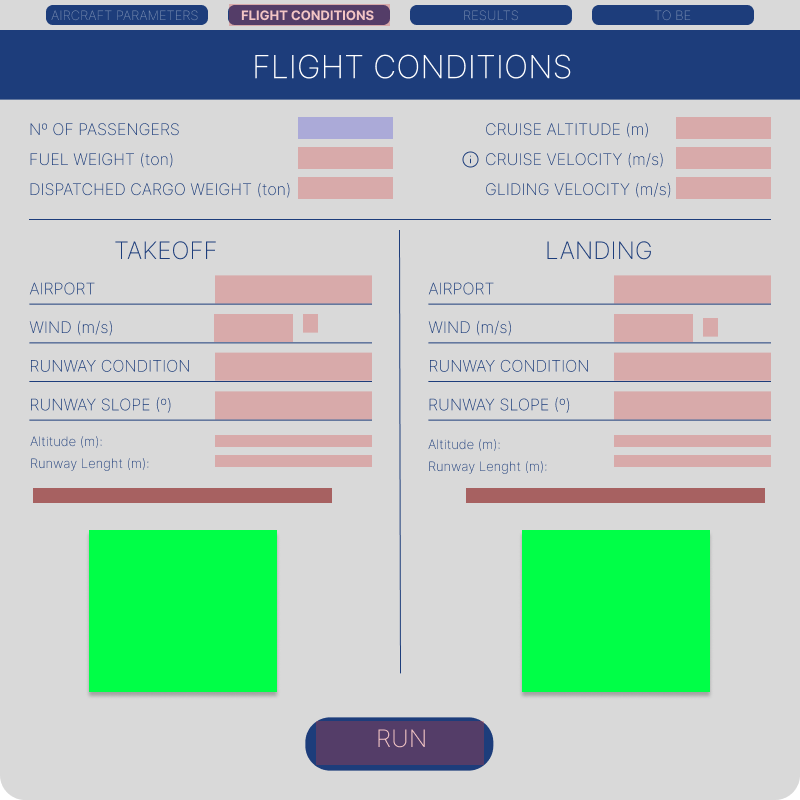
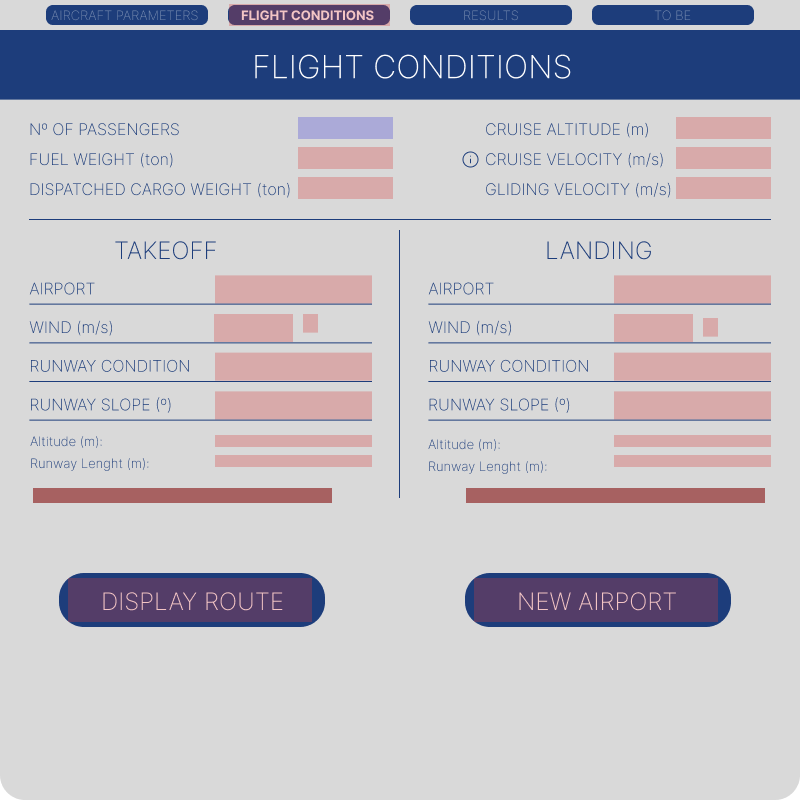
feat: new airport gui

Changed region(s): [[0.5625, 0.6562, 0.9375, 0.875], [0.0625, 0.6562, 0.4062, 0.875], [0.375, 0.875, 0.625, 0.9688]]

diff --git a/app/guis/ui_flight_conditions.py b/app/guis/ui_flight_conditions.py
@@ -15,6 +15,7 @@ from functions.aero import Aero
 from functions.plot_geo import get_map
 from PySide2.QtWidgets import QMainWindow, QPushButton, QWidget, QLabel, QCheckBox, QTextEdit
 from db.utils.db_utils import *
+from guis.ui_new_airport_table import InputTableWindow
 
 
 class GUI_FLIGHT_CONDITIONS(QMainWindow):
@@ -50,6 +51,8 @@ class GUI_FLIGHT_CONDITIONS(QMainWindow):
         self.wing_area = None
         self.logger = get_logger()
 
+        self.objects_list = []
+
         self.aircraft_list_db = None
         self.current_aircraft_db = None
         self.wing_area_value = None
@@ -61,8 +64,8 @@ class GUI_FLIGHT_CONDITIONS(QMainWindow):
         self.background_path = background_path
 
         _, self.aircrafts_parameters = execute_generic_query(db_path=r"db/aero.db", query="select * from Airplanes;", first_value=False)
-        self.airports, _ = execute_generic_query(db_path=r"db/aero.db", query="select iata, icao from Airports;", first_value=False)
-        self.runway_condition_options, _ = execute_generic_query(db_path=r"db/aero.db", query="select superficie from GroundType;")
+        self.airports, _ = execute_generic_query(db_path=r"db/aero.db", query="select iata, icao, aeroporto from Airports;", first_value=False)
+        self.runway_condition_options, _ = execute_generic_query(db_path=r"db/aero.db", query="select superficie from GroundTypes;")
 
         self.runway_temperature_takeoff_value = 0
         self.runway_temperature_takeoff = None
@@ -88,6 +91,8 @@ class GUI_FLIGHT_CONDITIONS(QMainWindow):
         self.background = None
         self.airport_list_takeoff = None
         self.centralwidget = None
+
+        self.layout = QVBoxLayout()
 
     def createToolTip(self, x, y, label_text, tooltip_text):
         # Create a label
@@ -162,9 +167,21 @@ class GUI_FLIGHT_CONDITIONS(QMainWindow):
 
         self.invoke_map_button = QPushButton(self.centralwidget)
         self.invoke_map_button.setText("")
-        self.invoke_map_button.setGeometry(QRect(356, 536, 89, 81))
+        self.invoke_map_button.setGeometry(QRect(68, 578, 244, 44))
         self.invoke_map_button.setStyleSheet("border: none; background: none;")
         self.invoke_map_button.clicked.connect(self.invoke_map)
+        self.objects_list.append(self.invoke_map_button)
+
+        # --------------------------------------------------------------------------------------------------------------#
+        # -------------------------------------------- NEW AIRPORT -----------------------------------------------------#
+        # --------------------------------------------------------------------------------------------------------------#
+
+        self.invoke_new_airport_button = QPushButton(self.centralwidget)
+        self.invoke_new_airport_button.setText("")
+        self.invoke_new_airport_button.setGeometry(QRect(474, 578, 244, 44))
+        self.invoke_new_airport_button.setStyleSheet("border: none; background: none;")
+        self.invoke_new_airport_button.clicked.connect(self.invoke_new_airport)
+        self.objects_list.append(self.invoke_new_airport_button)
 
         # --------------------------------------------------------------------------------------------------------------#
         # ----------------------------------- NUMBER OF PASSANGERS NUMBER BOX ------------------------------------------#
@@ -272,7 +289,8 @@ class GUI_FLIGHT_CONDITIONS(QMainWindow):
         count_airports_takeoff = 0
         for airport_code in self.airports:
             self.airport_list_takeoff.addItem("")
-            airport_code_content = f"IATA: {airport_code[0]} / ICAO: {airport_code[1]}"
+            # airport_code_content = f"IATA: {airport_code[0]} / ICAO: {airport_code[1]}"
+            airport_code_content = f"{airport_code[0]} - {airport_code[2]}"
             self.airport_list_takeoff.setItemText(count_airports_takeoff, QCoreApplication.translate("Flight_Conditions", f"{airport_code_content}", None))
             count_airports_takeoff += 1
 
@@ -285,7 +303,7 @@ class GUI_FLIGHT_CONDITIONS(QMainWindow):
         current_takeoff_airport = self.airport_list_takeoff.currentText()
         self.logger.debug(f"current_takeoff_airport: {current_takeoff_airport}")
 
-        self.current_takeoff_airport_iata = current_takeoff_airport[6:9]
+        self.current_takeoff_airport_iata = current_takeoff_airport.split(" -")[0]
         self.logger.debug(f"current_takeoff_airport_iata: {self.current_takeoff_airport_iata}")
 
         # --------------------------------------------------------------------------------------------------------------#
@@ -398,7 +416,7 @@ class GUI_FLIGHT_CONDITIONS(QMainWindow):
         count_airports_landing = 0
         for airport_code in self.airports:
             self.airport_list_landing.addItem("")
-            airport_code_content = f"IATA: {airport_code[0]} / ICAO: {airport_code[1]}"
+            airport_code_content = f"{airport_code[0]} - {airport_code[2]}"
             self.airport_list_landing.setItemText(count_airports_landing, QCoreApplication.translate("Flight_Conditions", f"{airport_code_content}", None))
             count_airports_landing += 1
 
@@ -410,7 +428,7 @@ class GUI_FLIGHT_CONDITIONS(QMainWindow):
         current_landing_airport = self.airport_list_landing.currentText()
         self.logger.debug(f"current_landing_airport: {current_landing_airport}")
 
-        self.current_landing_airport_iata = current_landing_airport[6:9]
+        self.current_landing_airport_iata = current_landing_airport.split(" -")[0]
         self.logger.debug(f"current_landing_airport_iata: {self.current_landing_airport_iata}")
 
 
@@ -525,7 +543,9 @@ class GUI_FLIGHT_CONDITIONS(QMainWindow):
 
 
 
-
+        self.new_airport_window = InputTableWindow()
+        self.layout.addWidget(self.new_airport_window)
+        self.new_airport_window.closed.connect(self.insert_new_airport)
 
 
         # -------------------------------------------------------------------------------------------------------------#
@@ -681,11 +701,12 @@ class GUI_FLIGHT_CONDITIONS(QMainWindow):
         self.runway_slope_landing.raise_()
         self.runway_condition_landing.raise_()
         self.cruise_altitude.raise_()
-        # self.run_analysis_button.raise_()
         self.cruise_velocity.raise_()
         self.gliding_velocity.raise_()
         self.invoke_map_button.raise_()
-        # self.cruise_velocity_tooltip.raise_()
+
+        for obj in self.objects_list:
+            obj.raise_()
 
 
 
@@ -838,7 +859,7 @@ class GUI_FLIGHT_CONDITIONS(QMainWindow):
         current_takeoff_airport = self.airport_list_takeoff.currentText()
         self.logger.debug(f"current_takeoff_airport: {current_takeoff_airport}")
 
-        self.current_takeoff_airport_iata = current_takeoff_airport[6:9]
+        self.current_takeoff_airport_iata = current_takeoff_airport.split(" -")[0]
         self.logger.debug(f"current_takeoff_airport_iata: {self.current_takeoff_airport_iata}")
 
         self.airport_takeoff_parameters = {}
@@ -856,6 +877,36 @@ class GUI_FLIGHT_CONDITIONS(QMainWindow):
             self.display_runway_lenght_takeoff.setText(self.display_runway_lenght_takeoff_value)
             self.display_airport_name_takeoff.setText(self.display_airport_name_takeoff_value)
 
+    def invoke_new_airport(self):
+
+        self.logger.debug("Fui clikado !!")
+        self.new_airport_window.show()
+
+    def insert_new_airport(self):
+        input_data = self.new_airport_window.get_input_data()
+        print("Clicado somente quando sai")
+        print(input_data)
+
+        self.airports, _ = execute_generic_query(db_path=r"db/aero.db", query="select iata, icao, aeroporto from Airports;", first_value=False)
+
+        self.airport_list_landing.clear()
+        self.airport_list_takeoff.clear()
+
+        count_airports_landing = 0
+        for airport_code in self.airports:
+            self.airport_list_landing.addItem("")
+            airport_code_content = f"{airport_code[0]} - {airport_code[2]}"
+            self.airport_list_landing.setItemText(count_airports_landing, QCoreApplication.translate("Flight_Conditions", f"{airport_code_content}", None))
+            count_airports_landing += 1
+
+        count_airports_takeoff = 0
+        for airport_code in self.airports:
+            self.airport_list_takeoff.addItem("")
+            airport_code_content = f"{airport_code[0]} - {airport_code[2]}"
+            self.airport_list_takeoff.setItemText(count_airports_takeoff, QCoreApplication.translate("Flight_Conditions", f"{airport_code_content}", None))
+            count_airports_takeoff += 1
+
+
     def invoke_map(self):
 
         latitude_takeoff = self.airport_takeoff_parameters['AIRPORT_TAKEOFF_LATITUDE']
@@ -871,7 +922,7 @@ class GUI_FLIGHT_CONDITIONS(QMainWindow):
     def handle_airport_list_landing_change(self):
 
         current_landing_airport = self.airport_list_landing.currentText()
-        self.current_landing_airport_iata = current_landing_airport[6:9]
+        self.current_landing_airport_iata = current_landing_airport.split(" -")[0]
         self.airport_landing_parameters = {}
 
         self.calculate_landing_airport_parameters()
@@ -898,7 +949,7 @@ class GUI_FLIGHT_CONDITIONS(QMainWindow):
     def calculate_runway_takeoff_condition_parameter(self):
         self.runway_condition_takeoff_mu, _ = execute_generic_query(
             db_path=r"db/aero.db",
-            query=f"select (min_mu_decolagem + max_mu_decolagem)/2 from GroundType where superficie='{self.runway_condition_takeoff_text}';")
+            query=f"select cof_friction_breaking_off from GroundTypes where superficie='{self.runway_condition_takeoff_text}';")
 
 
     def handle_slope_takeoff_value(self):
@@ -969,7 +1020,7 @@ class GUI_FLIGHT_CONDITIONS(QMainWindow):
 
         self.runway_condition_landing_mu, _ = execute_generic_query(
             db_path=r"db/aero.db",
-            query=f"select (min_mu_decolagem + max_mu_decolagem)/2 from GroundType where superficie='{self.runway_condition_landing_text}';")
+            query=f"select cof_friction_breaking_on from GroundTypes where superficie='{self.runway_condition_landing_text}';")
 
 
     def calculate_takeoff_airport_parameters(self):
@@ -1028,6 +1079,7 @@ class GUI_FLIGHT_CONDITIONS(QMainWindow):
                 "WIND_VELOCITY_TAKEOFF": self.wind_velocity_takeoff_value,
                 "RUNWAY_SLOPE_TAKEOFF": self.runway_slope_takeoff_value,
                 "ALTITUDE_TAKEOFF": self.airport_takeoff_parameters['AIRPORT_TAKEOFF_ELEVATION'],
+                "AIRPORT_TAKEOFF_RUNWAY_DISTANCE": self.airport_takeoff_parameters['AIRPORT_TAKEOFF_RUNWAY_DISTANCE'],
                 "MU_TAKEOFF": self.runway_condition_takeoff_mu
             },
 
@@ -1035,6 +1087,7 @@ class GUI_FLIGHT_CONDITIONS(QMainWindow):
                 "WIND_VELOCITY_LANDING": self.wind_velocity_landing_value,
                 "RUNWAY_SLOPE_LANDING": self.runway_slope_landing_value,
                 "ALTITUDE_LANDING": self.airport_landing_parameters['AIRPORT_LANDING_ELEVATION'],
+                "AIRPORT_LANDING_RUNWAY_DISTANCE": self.airport_landing_parameters['AIRPORT_LANDING_RUNWAY_DISTANCE'],
                 "MU_LANDING": self.runway_condition_landing_mu
             },
             "CRUISE_ALTITUDE": self.cruise_altitude_value,

diff --git a/app/guis/ui_new_airport_table.py b/app/guis/ui_new_airport_table.py
@@ -1,0 +1,120 @@
+from PySide2.QtWidgets import QApplication, QMainWindow, QTableWidget, QTableWidgetItem, QPushButton, QVBoxLayout, \
+    QWidget
+from PySide2.QtCore import Signal
+from db.utils.db_utils import *
+from PySide2.QtWidgets import *
+
+class InputTableWindow(QMainWindow):
+    closed = Signal()
+    def __init__(self):
+        super().__init__()
+
+        self.setWindowTitle("New Airport Propeties")
+        self.input_values = {}
+        # Create a table widget with 1 row and 6 columns
+        self.table_widget = QTableWidget(1, 6)
+
+        # Set headers for each column
+        self.headers = ["Airport Code", "Airport Name", "Runway Lenght", "Elevation", "Latitude", "Longitude"]
+        self.table_widget.setHorizontalHeaderLabels(self.headers)
+
+        # Add QTableWidgetItem objects to each cell to enable user input
+        for i in range(6):
+            item = QTableWidgetItem()
+            self.table_widget.setItem(0, i, item)
+
+        # Create a button to submit the input
+        self.submit_button = QPushButton("Submit")
+        self.submit_button.clicked.connect(self.submit_input)
+
+        # Set up the layout
+        layout = QVBoxLayout()
+        layout.addWidget(self.table_widget)
+        layout.addWidget(self.submit_button)
+
+        # Set the central widget
+        central_widget = QWidget()
+        central_widget.setLayout(layout)
+        self.setCentralWidget(central_widget)
+        self.set_dynamic_column_widths()
+
+    def success_box(self, message):
+        msg_box = QMessageBox()
+        msg_box.setIcon(QMessageBox.Information)
+        msg_box.setText(message)
+        msg_box.setWindowTitle('Success')
+        msg_box.exec_()
+
+    def warning_box(self, message, ok_and_decline=False):
+
+        msg_box = QMessageBox()
+        msg_box.setIcon(QMessageBox.Warning)
+        msg_box.setText(message)
+        msg_box.setWindowTitle('Warning')
+
+        if ok_and_decline is False:
+            msg_box.exec_()
+        else:
+            ok_button = QPushButton('Yes')
+            msg_box.addButton(ok_button, QMessageBox.AcceptRole)
+
+            decline_button = QPushButton('No')
+            msg_box.addButton(decline_button, QMessageBox.RejectRole)
+            result = msg_box.exec_()
+
+            return result
+
+    def submit_input(self):
+        # Retrieve user input from each cell and process as needed
+        for i, j in zip(range(6), self.headers):
+            item = self.table_widget.item(0, i)
+            if item is not None:
+                self.input_values[j] = item.text()
+            else:
+                self.input_values[j] = ""  # If cell is empty, append an empty string
+
+        airport_code = self.input_values['Airport Code']
+
+        _, self.airports = execute_generic_query(db_path=r"./db/aero.db", query="select distinct iata from airports;", first_value=False)
+
+
+
+        if airport_code in self.airports.keys():
+            self.warning_box(message='Airport code already in the database. Give it another code.')
+
+        elif any(t == '' for t in list(self.input_values.values())):
+            self.warning_box(message='Please, fulfill all required values.')
+
+        else:
+
+            insert_query = f"""
+                        INSERT INTO AIRPORTS
+                        (iata, icao, aeroporto, pista, elevacao, latitude, longitude)
+                        VALUES ('{self.input_values['Airport Code']}', '{self.input_values['Airport Code']}', '{self.input_values['Airport Name']}', {self.input_values['Runway Lenght']}, {self.input_values['Elevation']}, {self.input_values['Latitude']}, {self.input_values['Longitude']}) ;
+                        """
+            insert_data_to_db(db_path=r"./db/aero.db", query=insert_query)
+            self.success_box(message='Airport successfully created!')
+
+
+    def get_input_data(self):
+        return self.input_values
+
+    def closeEvent(self, event):
+        # This method is called when the window is closed
+        # Emit the signal to indicate that window is closed
+        self.closed.emit()
+        event.accept()  # Accept the event to close the window
+
+    def set_dynamic_column_widths(self):
+        # Adjust column widths dynamically based on content
+        self.table_widget.horizontalHeader().setSectionResizeMode(QHeaderView.Stretch)
+
+
+
+
+
+if __name__ == "__main__":
+    app = QApplication([])
+    window = InputTableWindow()
+    window.show()
+    app.exec_()
